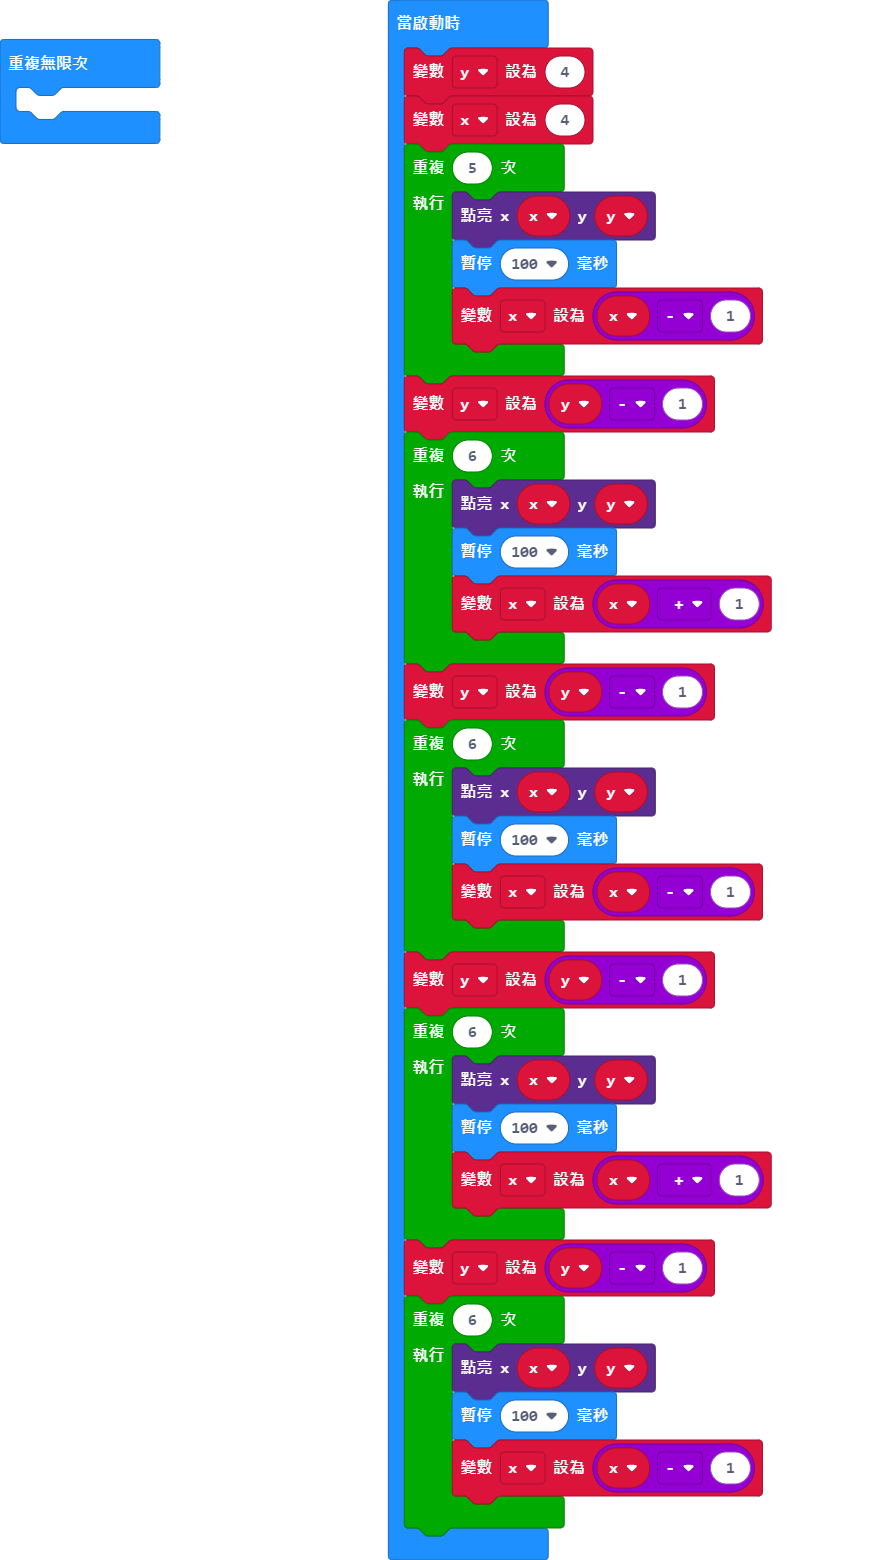
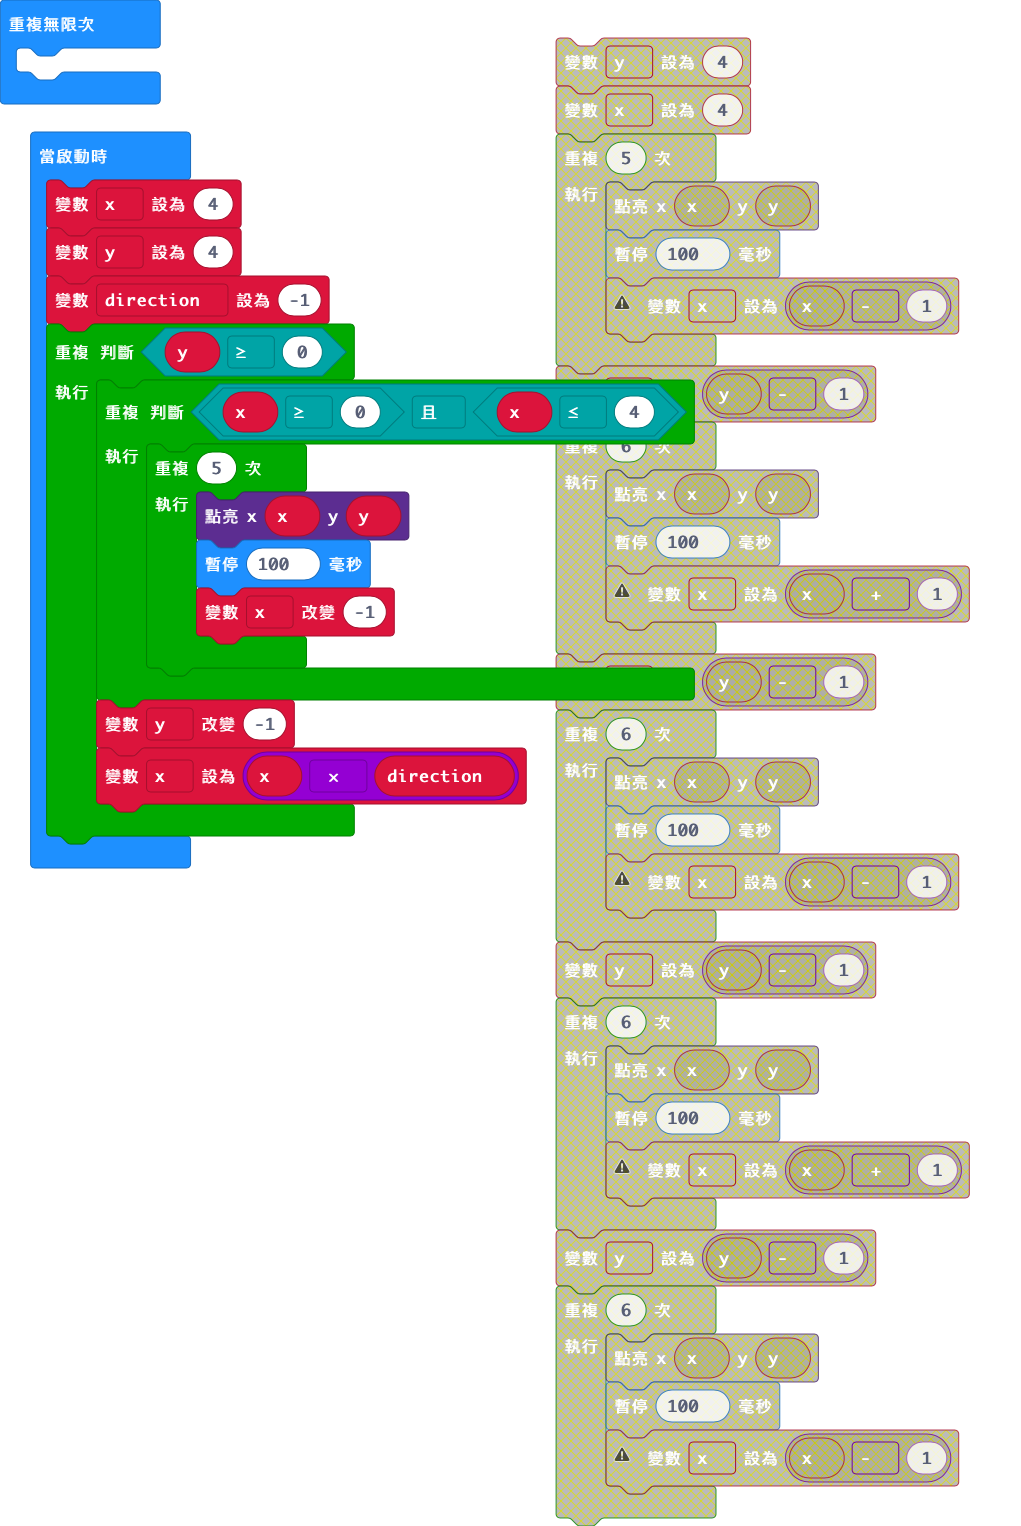
Update main.blocks, main.ts

diff --git a/main.ts b/main.ts
@@ -1,33 +1,16 @@
-let y = 4
 let x = 4
-for (let index = 0; index < 5; index++) {
-    led.plot(x, y)
-    basic.pause(100)
-    x = x - 1
-}
-y = y - 1
-for (let index = 0; index < 6; index++) {
-    led.plot(x, y)
-    basic.pause(100)
-    x = x + 1
-}
-y = y - 1
-for (let index = 0; index < 6; index++) {
-    led.plot(x, y)
-    basic.pause(100)
-    x = x - 1
-}
-y = y - 1
-for (let index = 0; index < 6; index++) {
-    led.plot(x, y)
-    basic.pause(100)
-    x = x + 1
-}
-y = y - 1
-for (let index = 0; index < 6; index++) {
-    led.plot(x, y)
-    basic.pause(100)
-    x = x - 1
+let y = 4
+let direction = -1
+while (y >= 0) {
+    while (x >= 0 && x <= 4) {
+        for (let index = 0; index < 5; index++) {
+            led.plot(x, y)
+            basic.pause(100)
+            x += -1
+        }
+    }
+    y += -1
+    x = x * direction
 }
 basic.forever(function () {
 	
